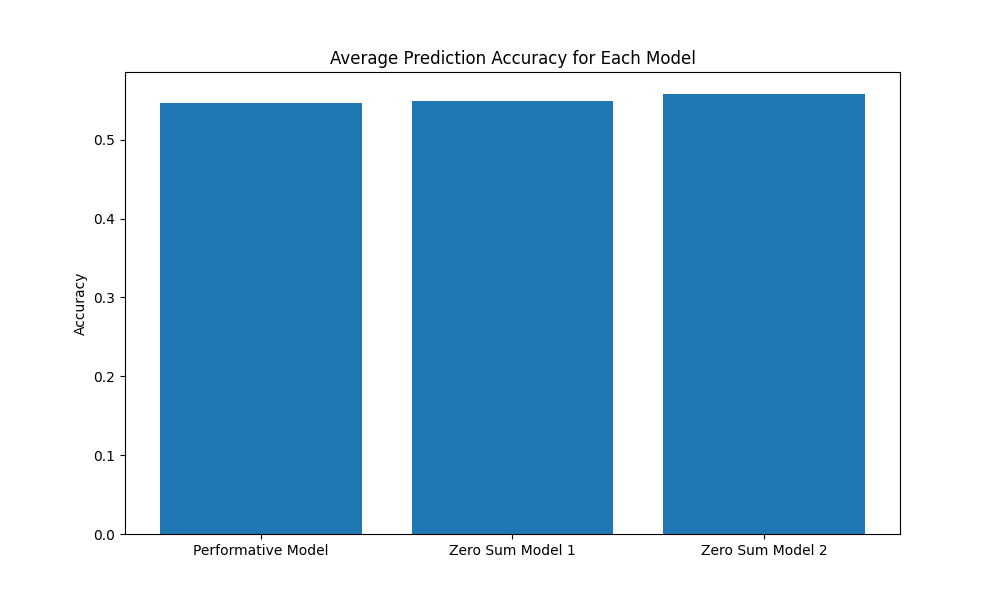
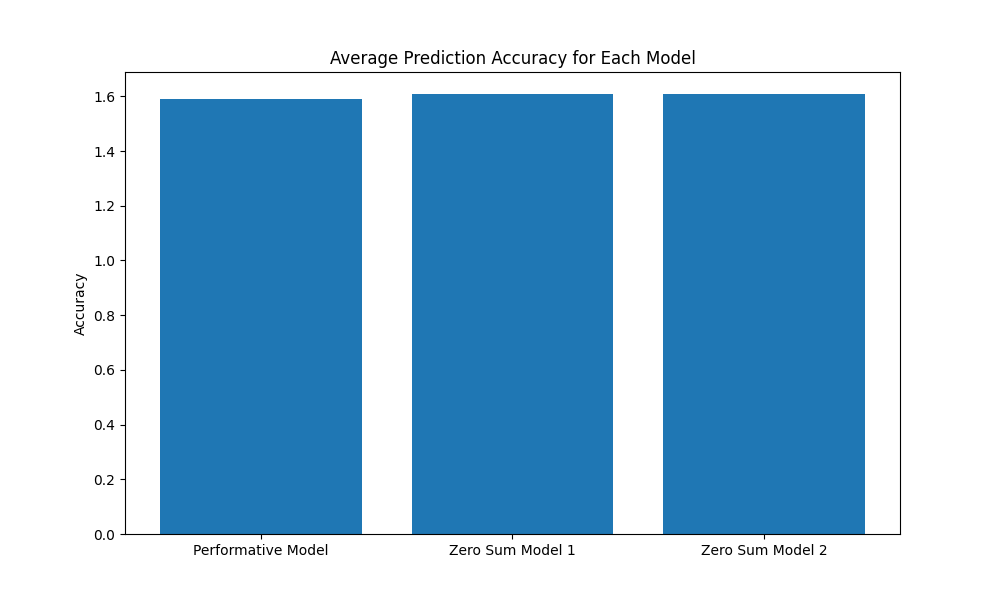
Kinda bullshit tbh. Needs a lot more work

diff --git a/training/train.py b/training/train.py
@@ -11,6 +11,7 @@ from typing import Literal
 import os
 import logging
 import json
+import copy
 import matplotlib.pyplot as plt
 from tqdm import tqdm
 from model.network import initialize_components, ActionPredictor
@@ -200,21 +201,34 @@ def main():
             scheduler=scheduler,
             num_epochs=NUM_EPOCHS,
         )
-
-    # Load the performative model instead of training
-    performative_model = load_model(
-        ActionPredictor(NUM_FEATURES, NUM_CLASSES), "best_performative_model.pth"
-    )
+    else:
+        # Load the performative model instead of training
+        performative_model = load_model(
+            ActionPredictor(NUM_FEATURES, NUM_CLASSES), "best_performative_model.pth"
+        )
     performative_model = performative_model.to(device)
 
-    # Load Zero Sum Predictors instead of training
+    train_zerosum = True
+    if train_zerosum:
+        zerosum_model_1 = ActionPredictor(NUM_FEATURES, NUM_CLASSES)
+        zerosum_model_2: ActionPredictor = copy.deepcopy(zerosum_model_1)
+        train_zero_sum_models(
+            model_1=zerosum_model_1,
+            model_2=zerosum_model_2,
+            trainloader=trainloader,
+            optimizer_1=optimizer,
+            optimizer_2=optimizer,
+            num_epochs=NUM_EPOCHS,
+        )
+
+    # Load trained Zero Sum Predictors
     zerosum_model_1 = load_model(
         ActionPredictor(NUM_FEATURES, NUM_CLASSES), "zerosum_model_1_epoch_100.pth"
     )
-    zerosum_model_1 = zerosum_model_1.to(device)
     zerosum_model_2 = load_model(
         ActionPredictor(NUM_FEATURES, NUM_CLASSES), "zerosum_model_2_epoch_100.pth"
     )
+    zerosum_model_1 = zerosum_model_1.to(device)
     zerosum_model_2 = zerosum_model_2.to(device)
 
     # Calculate ECE for a batch from the validation set

diff --git a/training/model/utils.py b/training/model/utils.py
@@ -3,7 +3,7 @@ import os
 import torch.nn as nn
 from typing import Literal
 from torch.utils.data import DataLoader
-from training.model.network import ActionPredictor
+from model.network import ActionPredictor
 
 
 def brier_score(
@@ -44,7 +44,10 @@ def calculate_accuracy(
             inputs, labels = inputs.to(device), labels.to(device)
             outputs = model(inputs)
             output_probs = torch.nn.functional.softmax(outputs, dim=1)
-            loss += torch.nn.functional.cross_entropy(output_probs, labels).item()
+            _, predicted = torch.max(output_probs, 1)
+            correct = (predicted == labels).sum().item()
+            accuracy = correct / labels.size(0)
+            loss += accuracy
     return loss / len(dataloader)
 
 
@@ -83,6 +86,7 @@ def calculate_other_options_accuracy(
             other_labels[predicted_classes == 1] = 0
             loss = torch.nn.functional.cross_entropy(other_outputs, other_labels).item()
     return loss / len(dataloader)
+
 
 
 # Validation loop

diff --git a/training/historical_datasets.py b/training/historical_datasets.py
@@ -66,9 +66,10 @@ class ProbIdentityDataset(Dataset[tuple[torch.Tensor, torch.Tensor]]):
 
     def generate_data(self):
         features = torch.randn(self.length, self.num_classes)
-        labels = (torch.randn(self.length, self.num_classes) < features).to(
+        raw_labels = (torch.randn(self.length, self.num_classes) < features).to(
             torch.float32
         )
+        labels = torch.nn.functional.softmax(raw_labels, dim=1)
         return features, labels
 
     def __len__(self):

diff --git a/training/model/network.py b/training/model/network.py
@@ -18,7 +18,6 @@ class ActionPredictor(nn.Module):
         x = self.fc3(x)
         return x
 
-
 # Initialize models, optimizers, and other components
 def initialize_components(
     num_features: int,
